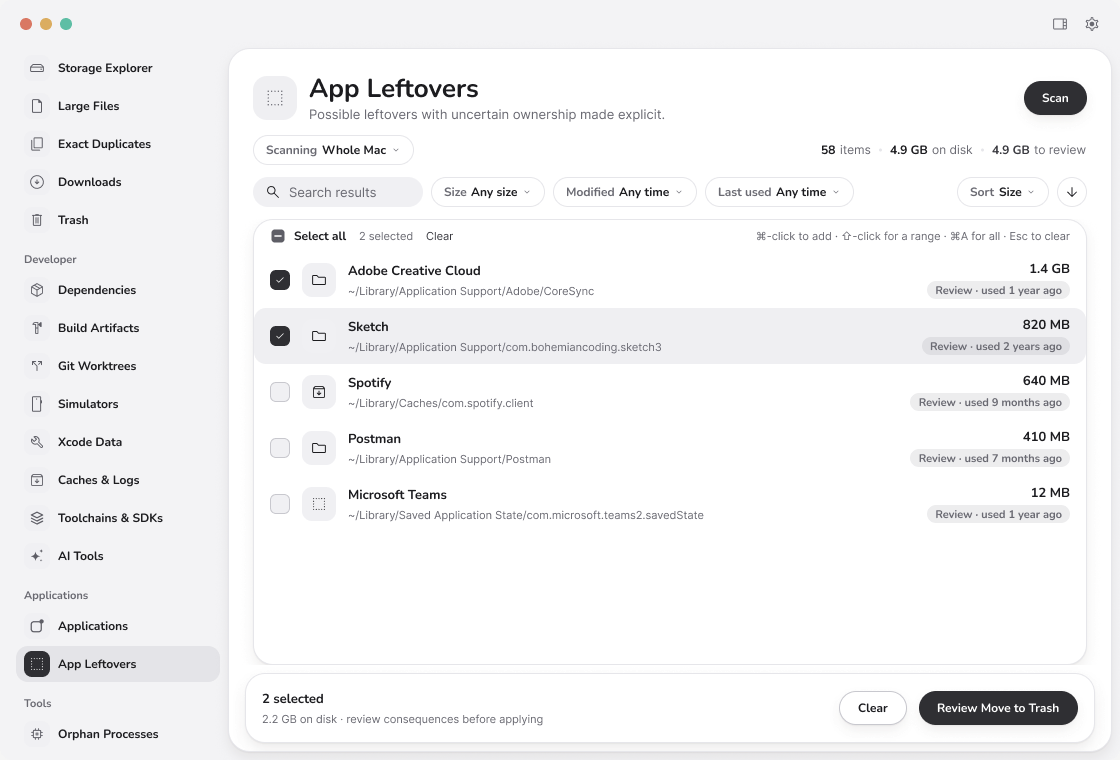
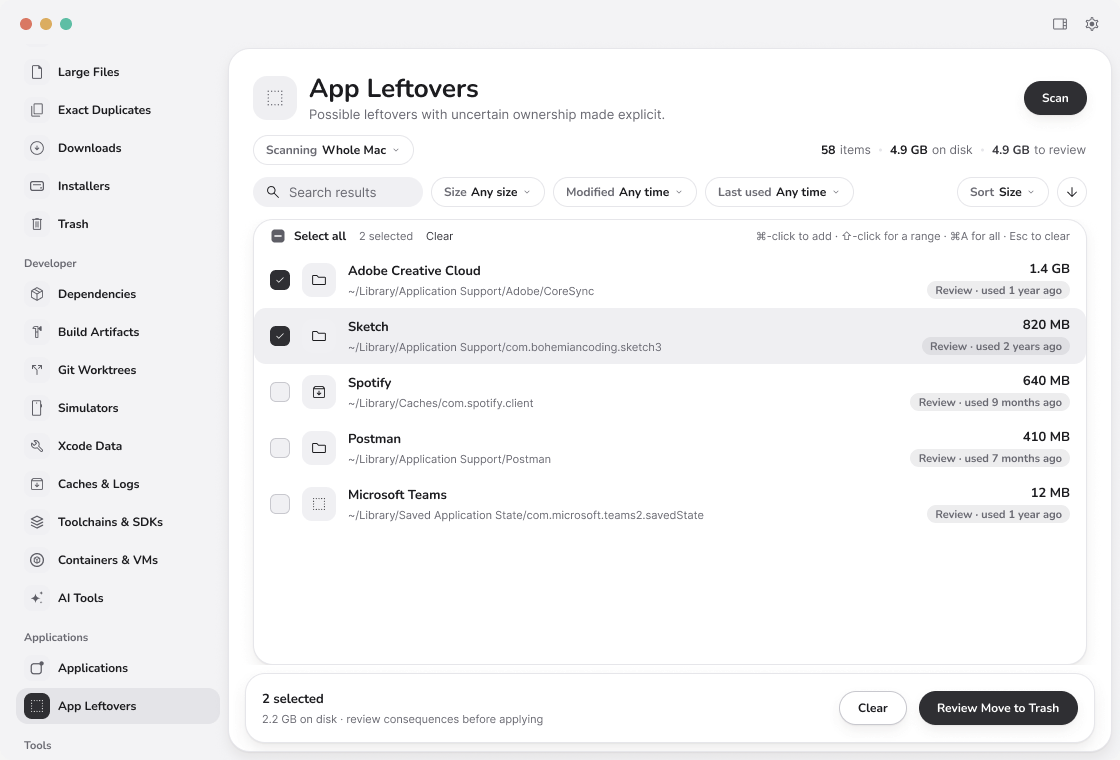
Remove the handoff file; refresh the README tour [skip ci]
- docs/HANDOFF.md is gone. Its checks that need a real Mac now live in
  docs/VERIFICATION.md under "Checks that need a Mac".
- Every README screenshot is exported again from Figma, now with the
  Installers and Containers & VMs tools in the sidebar, and the tour
  gains the Containers & VMs and Installers pages.
- VERIFICATION.md says the screenshots are rendered from the design.

Claude-Session: https://claude.ai/code/session_017369yWre7xhKeKuXqeGMG1

diff --git a/README.md b/README.md
@@ -12,7 +12,7 @@ CleanYourMac finds items that use disk space on your Mac. Examples are large dow
 
 ![CleanYourMac overview: storage totals and the recommended fixes](docs/screenshots/overview.png)
 
-- **Made for developers.** It knows `node_modules`, Python environments, Cargo `target`, DerivedData, simulators, toolchains and Git worktrees. It shows the project that owns each item.
+- **Made for developers.** It knows `node_modules`, Python environments, Cargo `target`, DerivedData, simulators, toolchains, Git worktrees and Docker. It shows the project that owns each item.
 - **Cleans up after AI tools.** It sorts the caches, transcripts and models of Claude Code, Codex, Gemini CLI, Cursor, Ollama and 20 more tools into Safe, Review and Caution tiers.
 - **Safe by design.** Items go to the Trash. The app examines each item again before it acts, and it does not touch credentials, settings or files that Git tracks.
 - **Fast.** A Rust core reads the disk in parallel and keeps a million results searchable.
@@ -83,6 +83,10 @@ When you move an item to the Trash, you can restore it. The disk space becomes f
 <tr>
 <td><img src="docs/screenshots/simulators.png" alt="Simulators page with devices and an installed runtime"><br><strong>Simulators.</strong> App data of each device, with its runtime and the date of the last boot.</td>
 <td><img src="docs/screenshots/toolchains.png" alt="Toolchains page with Swift, Android, Rust, Python and Node.js versions"><br><strong>Toolchains &amp; SDKs.</strong> Installed language versions. The version in use stays.</td>
+</tr>
+<tr>
+<td><img src="docs/screenshots/containers.png" alt="Containers and VMs page with Docker disks, build cache, unused images and volumes"><br><strong>Containers &amp; VMs.</strong> The real size of Docker, OrbStack, Colima and Podman disks, and their own cleanup commands.</td>
+<td><img src="docs/screenshots/installers.png" alt="Installers page with a macOS installer, an Xcode archive and disk images"><br><strong>Installers.</strong> macOS installers, Xcode archives, disk images and packages that you already used.</td>
 </tr>
 <tr>
 <td><img src="docs/screenshots/caches-logs.png" alt="Caches and Logs page with Gradle, Homebrew, Cargo and pip caches"><br><strong>Caches &amp; Logs.</strong> Caches that tools download or make again, with the cost of each removal.</td>

diff --git a/docs/VERIFICATION.md b/docs/VERIFICATION.md
@@ -8,11 +8,21 @@ Verified locally after the SVG resource update:
 - The design-token lint and full Swift test suite pass (native mutation tests remain opt-in).
 - The packaged app builds for both arm64 and x86_64, contains its brand-icon resources, and passes strict ad hoc signature verification.
 - The universal app opens on Apple silicon. Intel and older macOS systems were cross-built, not run locally.
-- Four screenshots were captured from the actual app in its isolated, non-destructive demo mode. All displayed paths and processes are fictional.
+- The README screenshots are rendered from the Figma design file with example data. All displayed paths and processes are fictional.
 
 Build checks fix the Swift module-count expectation, the SVG raw-string delimiter, and machine-dependent random exclusion coverage. Demo inspection waits for the result store to finish loading, and the simulator fixture includes its data path so aggregate totals match normal scan results.
 
 The Homebrew cask pins the universal preview archive by SHA-256. This preview is not Developer ID signed or notarized.
+
+## Checks that need a Mac
+
+Fixture tests cover these tools on Linux with stubbed command output. Confirm them on a Mac with real data:
+
+- **Containers & VMs:** the output of `docker system df --format '{{json .}}'` and `docker context show` on Docker Desktop, OrbStack and Colima; the folder of Podman's machine disk and the output of `podman system df`.
+- **Simulators:** the fields of `xcrun simctl runtime list -j` (`deletable`, `sizeBytes`, `lastUsedAt`), and that a deleted runtime frees its space.
+- **Caches & Logs:** the Electron web caches list no app whose `Cache` folder holds more than a cache.
+- **AI Tools:** a Claude Code session still resumes after its `tool-results` folder is in the Trash; the bundle identifiers of Kiro, Trae, Void and the Codex app in `crates/cym-modules/src/modules/ai/catalog.rs` match the installed apps; Ollama frees a model's files when it starts after its manifest is in the Trash.
+- **Native tests:** run `scripts/test-native.sh` on a Mac with a simulator runtime and record the result here.
 
 ## Current: Rust core with a SwiftUI client
 
